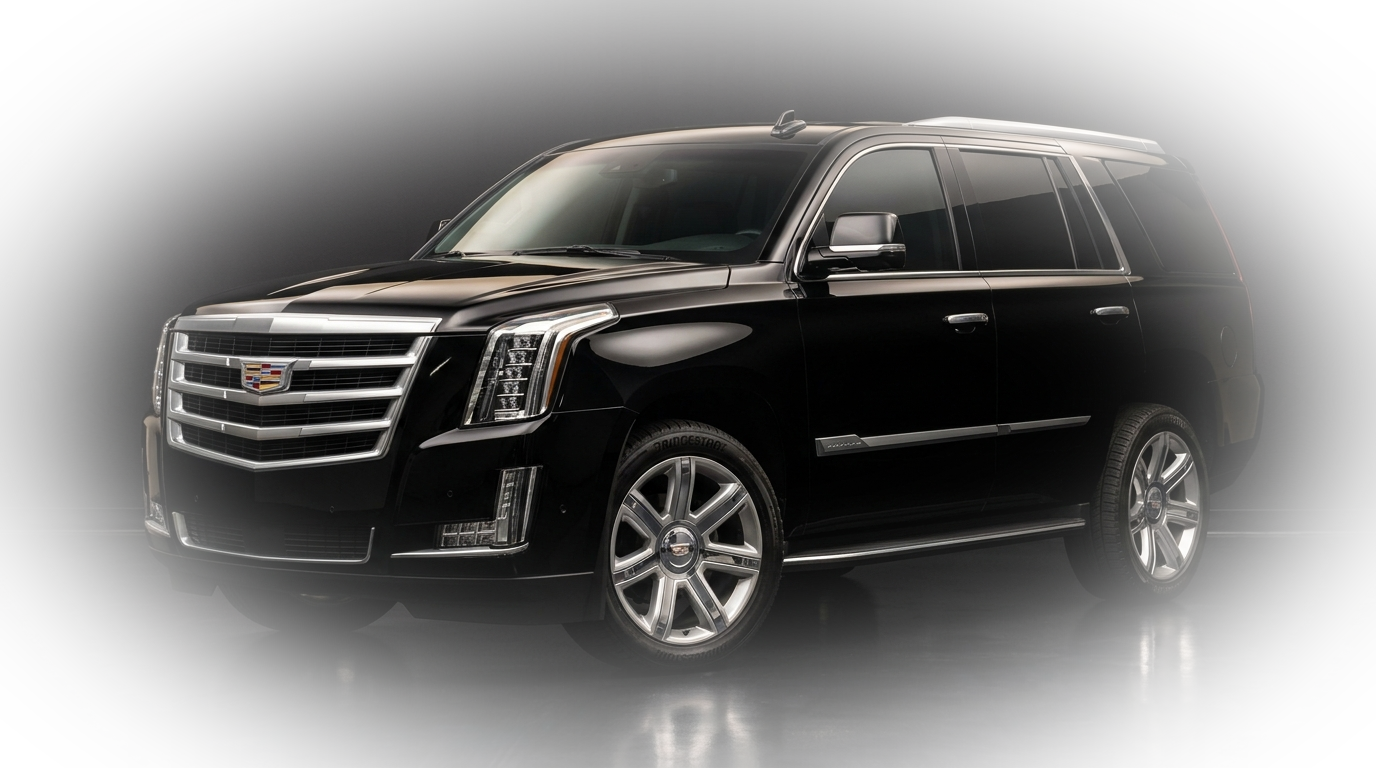
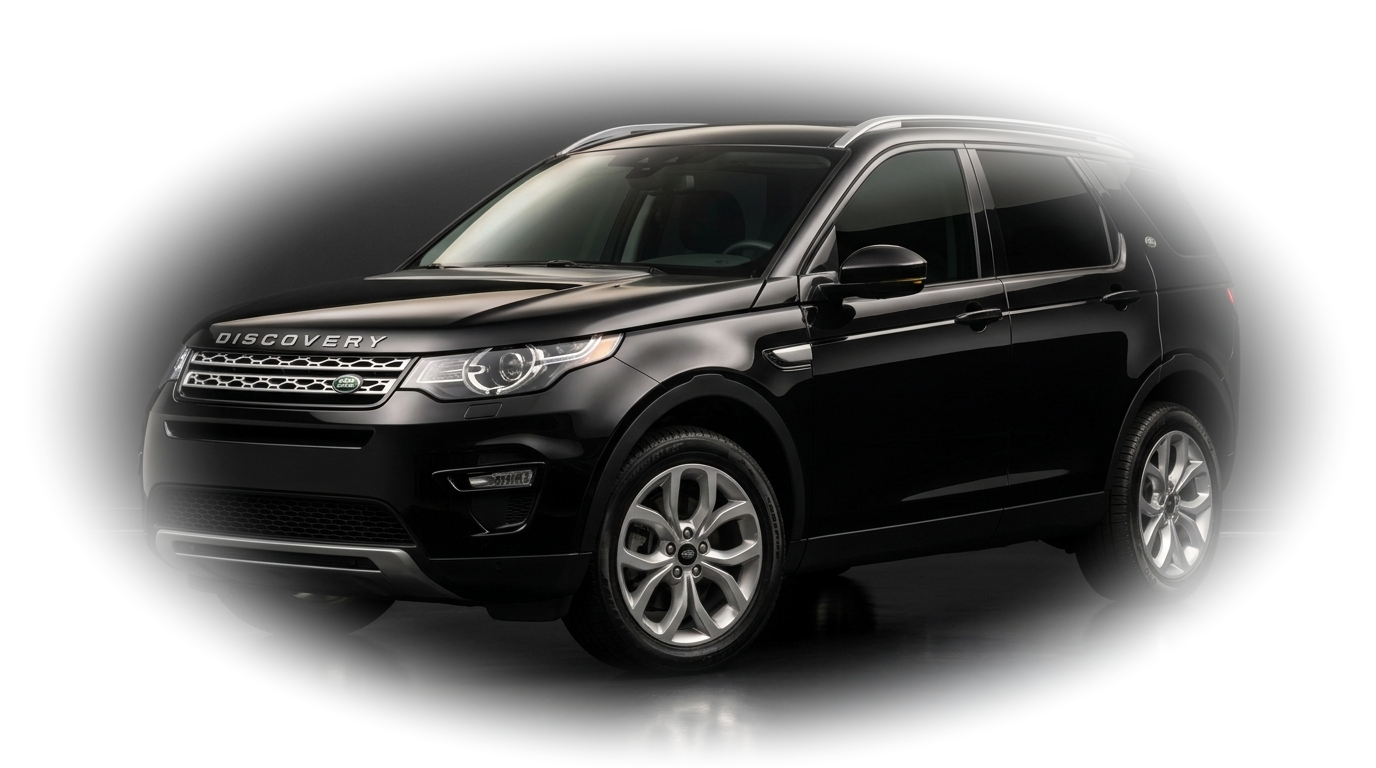
feat: substituir Escalade de fundo do Hero pela Land Rover Discovery Sport preta

diff --git a/templates/index.html b/templates/index.html
@@ -9,9 +9,9 @@
      ========================================================================== -->
 <section class="drvn-hero" id="hero">
   
-  <!-- Cadillac Escalade Preta Realista no Centro-Direita (Estilo Mockup) -->
+  <!-- Land Rover Discovery Preta Realista no Centro-Direita (Estilo Mockup) -->
   <div class="hero-center-escalade" aria-hidden="true">
-    <img src="{{ url_for('static', filename='images/hero-escalade-studio.png') }}?v=3" alt="Cadillac Escalade Blindada">
+    <img src="{{ url_for('static', filename='images/hero-landrover-studio.png') }}?v=1" alt="Land Rover Discovery Blindada">
   </div>
 
   <div class="container-xl position-relative" style="z-index: 3;">
